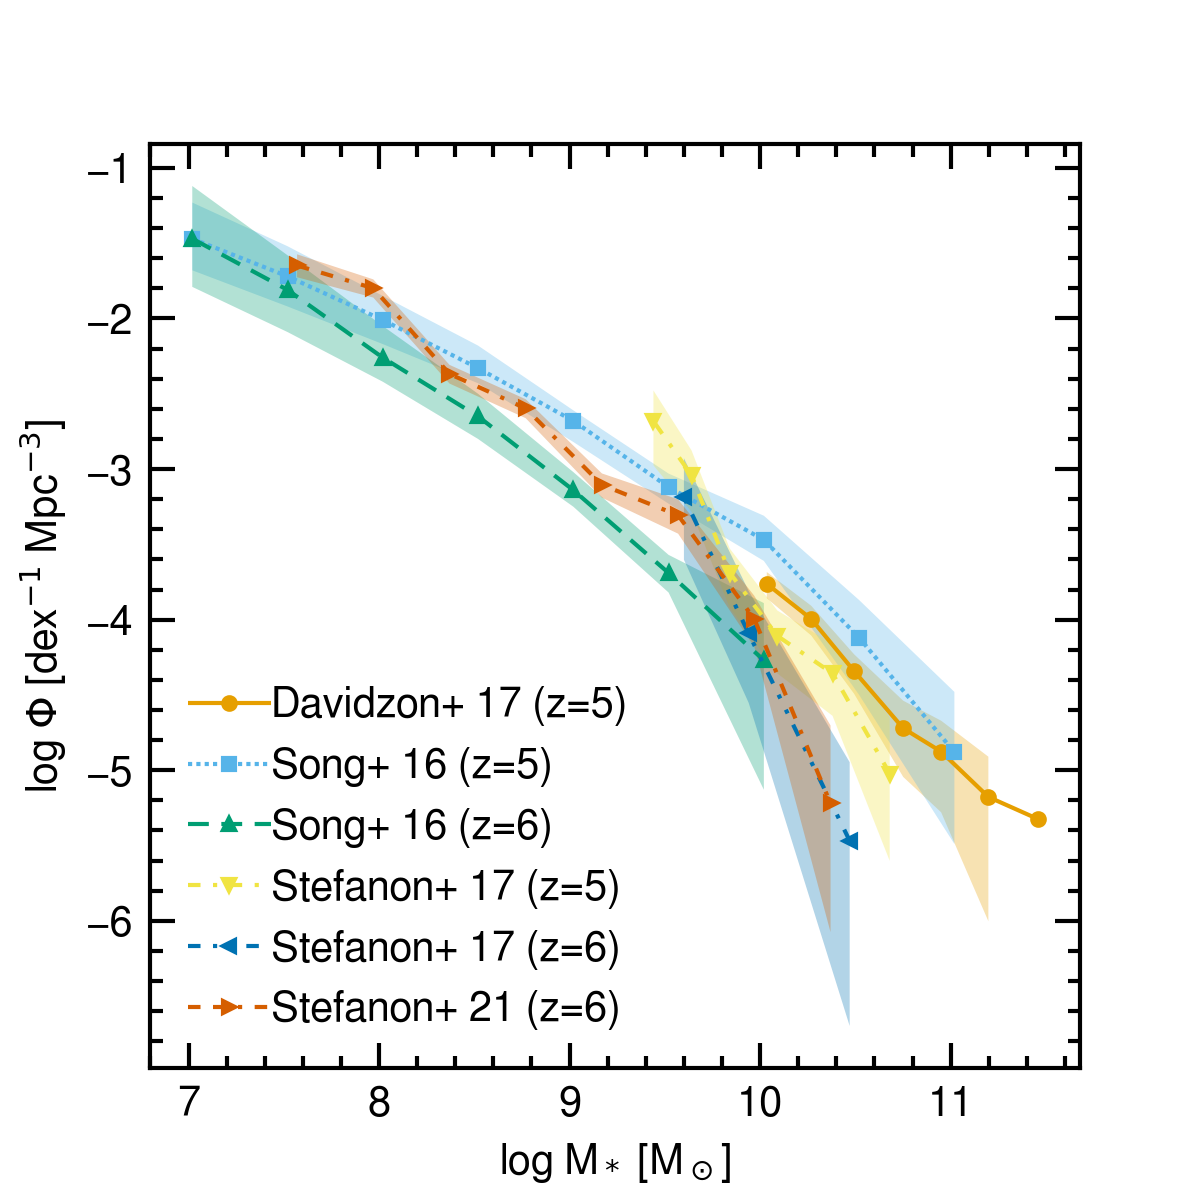
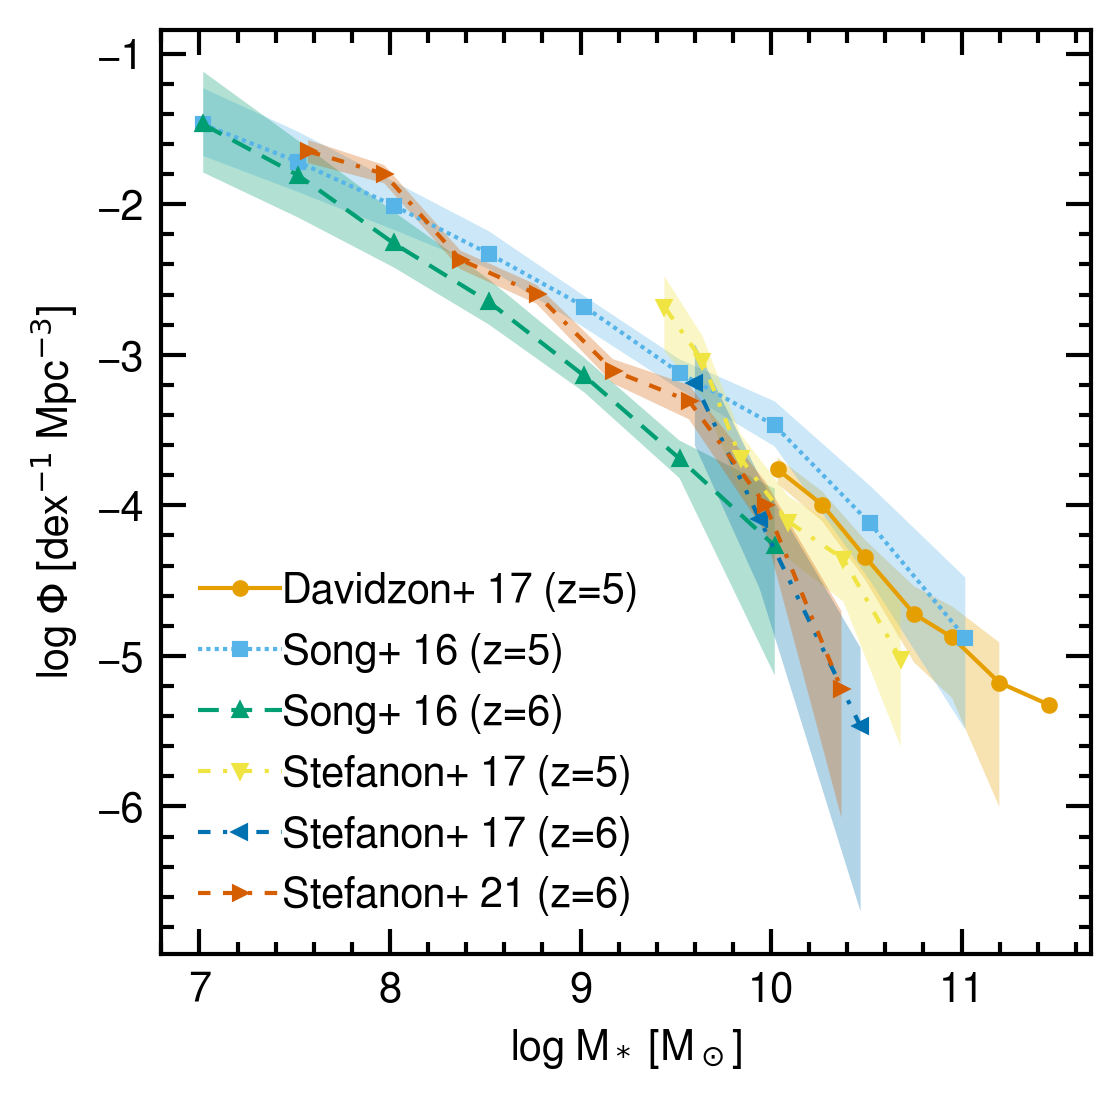
added bouwens15 SFRF

Changed region(s): [[0.0, 0.0, 1.0, 0.9882]]

diff --git a/format_data.py b/format_data.py
@@ -2,14 +2,15 @@
 import numpy as np
 import math
 
-file = "data/SHMR/stefanon2021_z10.csv"
+file = "data/SFRF/bouwens2015_z5.csv"
 
 d = np.loadtxt(file)
 
 for line in d:
-  c1 = line[0]
-  c2 = math.log10(line[1]*1e-3)
-  c3 = c2 - math.log10((line[1]-line[2])*1e-3)
-  c4 = math.log10((line[1]+line[3])*1e-3) - c2
+  c1 = math.log10(line[0])
+  c2 = math.log10(line[1]*1e-2)
+  c3 = c2 - math.log10((line[1] - line[2])*1e-2)
+  # c3 = 0
+  c4 = math.log10((line[1]+line[2])*1e-2) - c2
   print("{:.3f}, {:.3f}, {:.3f}, {:.3f}".format(c1, c2, c3, c4))
 # %%

diff --git a/example.py b/example.py
@@ -5,13 +5,12 @@ import load_obsdata as obs
 d = obs.load_obsdata("SMF", 5, 6)
 
 plt.figure(facecolor="white")
-for i in range(len(d)):
-  di = d[i]
+for di in d:
   plt.plot(di["x"], di["y"], label=di["label"], ms=3)
   plt.fill_between(di["x"], di["y1"], di["y2"], alpha=0.3)
 plt.xlabel(r"log M$_*$ [M$_\odot$]")
 plt.ylabel(r"log $\Phi$ [dex$^{-1}$ Mpc$^{-3}$]")
 plt.legend()
-plt.savefig("example.png")
+plt.savefig("example.png", bbox_inches="tight")
 plt.close()
 # %%

diff --git a/README.md b/README.md
@@ -17,14 +17,13 @@ import load_obsdata as obs
 d = obs.load_obsdata("SMF", 5, 6)
 
 plt.figure(facecolor="white")
-for i in range(len(d)):
-  di = d[i]
+for di in d:
   plt.plot(di["x"], di["y"], label=di["label"], ms=3)
   plt.fill_between(di["x"], di["y1"], di["y2"], alpha=0.3)
 plt.xlabel(r"log M$_*$ [M$_\odot$]")
 plt.ylabel(r"log $\Phi$ [dex$^{-1}$ Mpc$^{-3}$]")
 plt.legend()
-plt.savefig("example.png")
+plt.savefig("example.png", bbox_inches="tight")
 plt.close()
 ```
 <img src="./example.png" width=500px>
